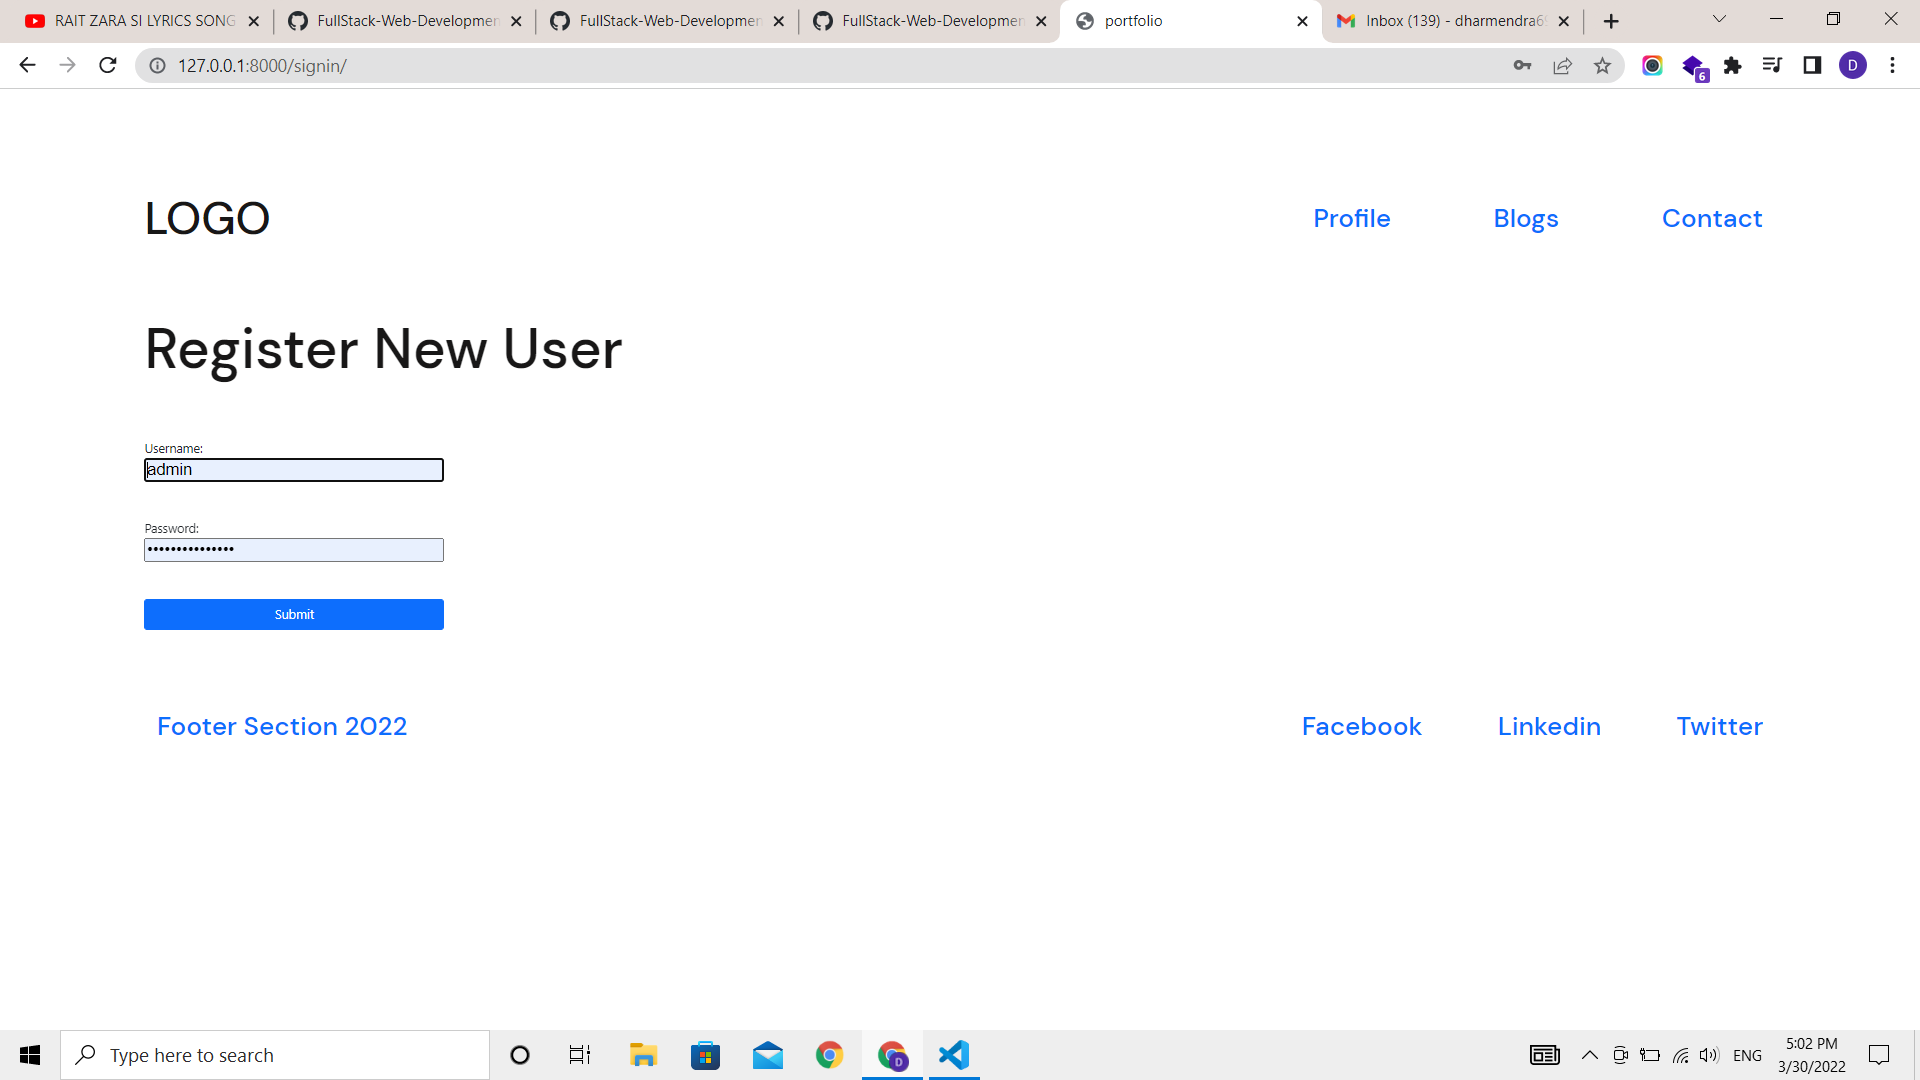
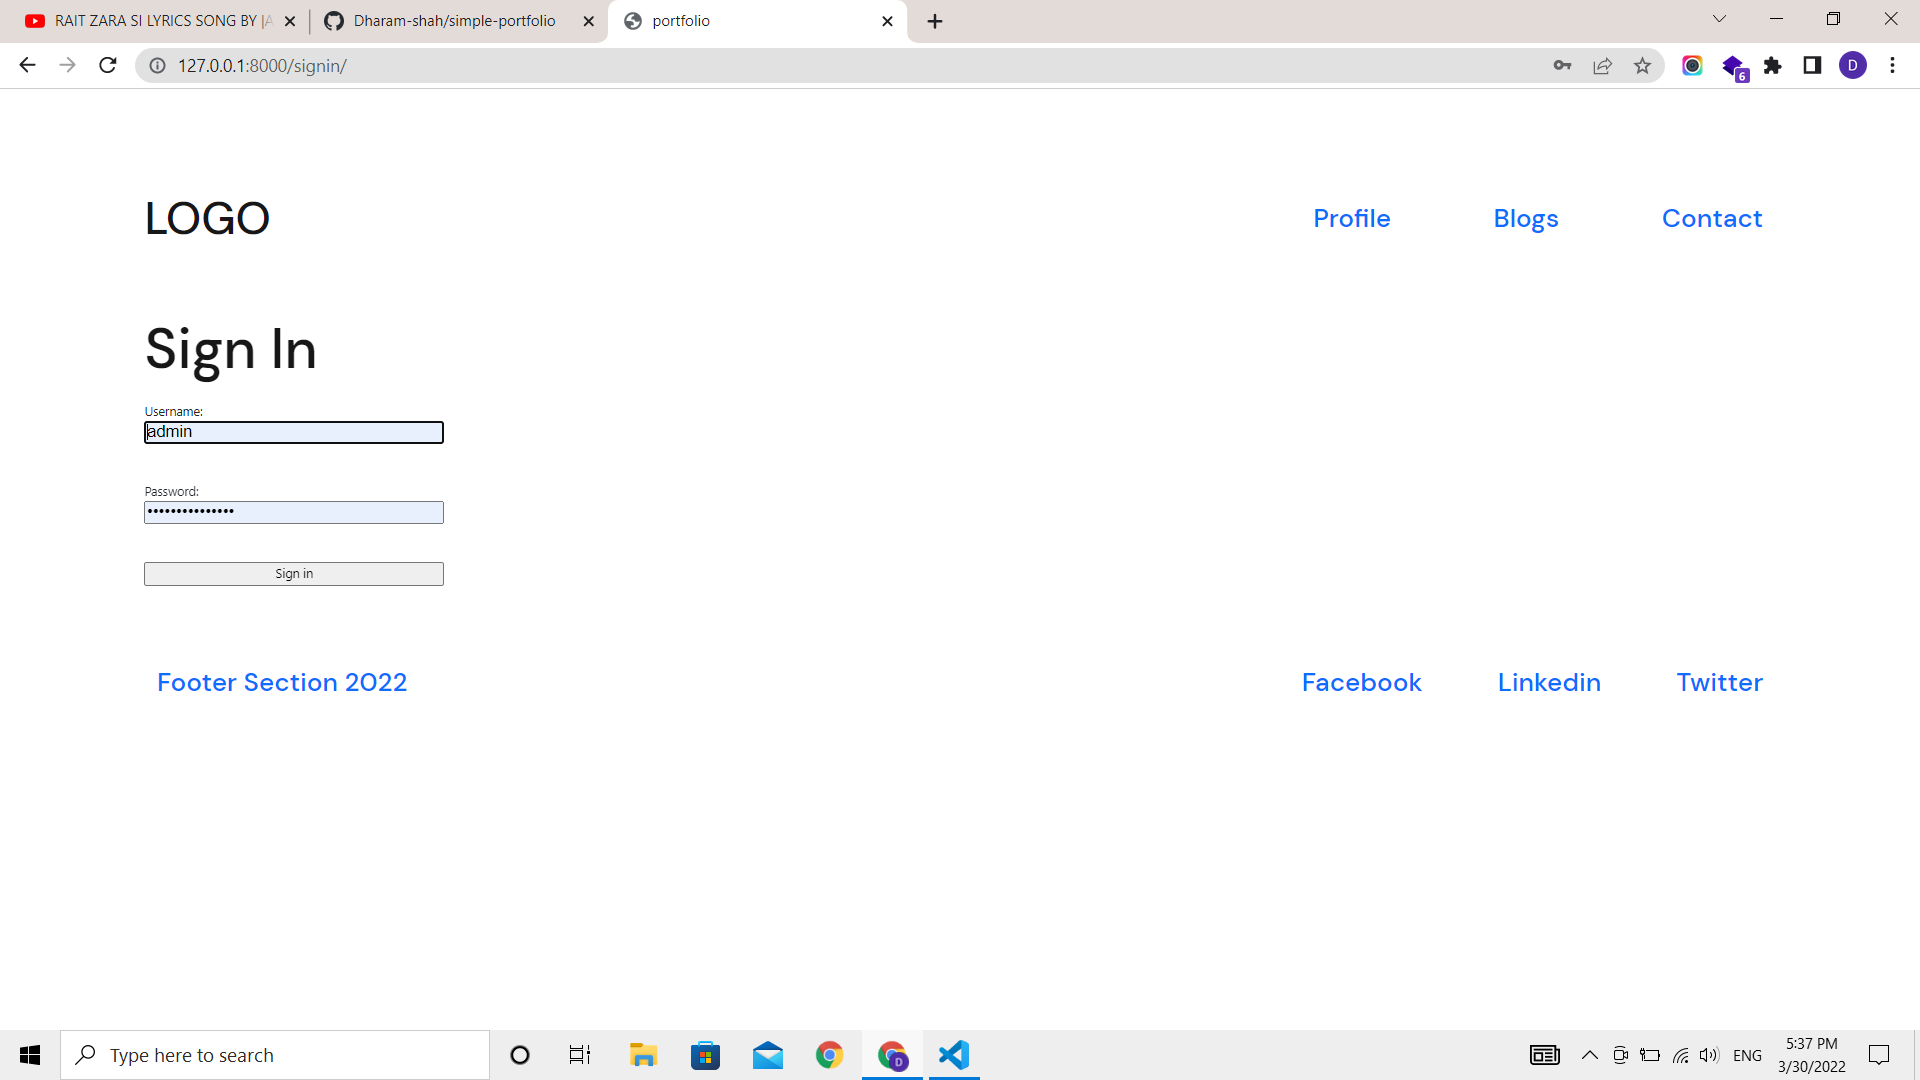
updating readme file image

diff --git a/templates/account/signin.html b/templates/account/signin.html
@@ -2,17 +2,19 @@
 
 <section class="signin">
   <div class="container">
-    <h1 class="heading-primary">Sign In</h1>
-    <form action="" method="post" novalidate class="register-form">
-      <div class="form-group">
-        {% csrf_token %} {% for fm in form %} {{fm.label_tag}} {{fm}}
-        {{fm.errors}}
-        <br />
-        <br />
-        {% endfor %}
-        <input type="submit" value="Sign in" />
-      </div>
-    </form>
+    <div class="signin-details">
+      <h1 class="heading-primary">Sign In</h1>
+      <form action="" method="post" novalidate class="register-form">
+        <div class="form-group">
+          {% csrf_token %} {% for fm in form %} {{fm.label_tag}} {{fm}}
+          {{fm.errors}}
+          <br />
+          <br />
+          {% endfor %}
+          <input type="submit" value="Sign in" />
+        </div>
+      </form>
+    </div>
   </div>
 </section>
 

diff --git a/static/css/style.css b/static/css/style.css
@@ -392,16 +392,16 @@ html {
 }
 
 .register,
-.signin,
+.signin-details,
 .profile {
   margin-block: 6rem;
 }
 
 .register .form-group,
-.signin,
+.signin-details .form-group,
 .profile-details {
   display: flex;
   flex-direction: column;
   width: 24rem;
-  margin-block: 5rem;
+  margin-block: 2rem;
 }

diff --git a/account/views.py b/account/views.py
@@ -27,7 +27,7 @@ def signin(request):
                     return redirect('/profile')
         else:
             form = AuthenticationForm()
-            return render(request, 'account/register.html', {'form': form})
+            return render(request, 'account/signin.html', {'form': form})
     else:
         return redirect('/profile')
 
